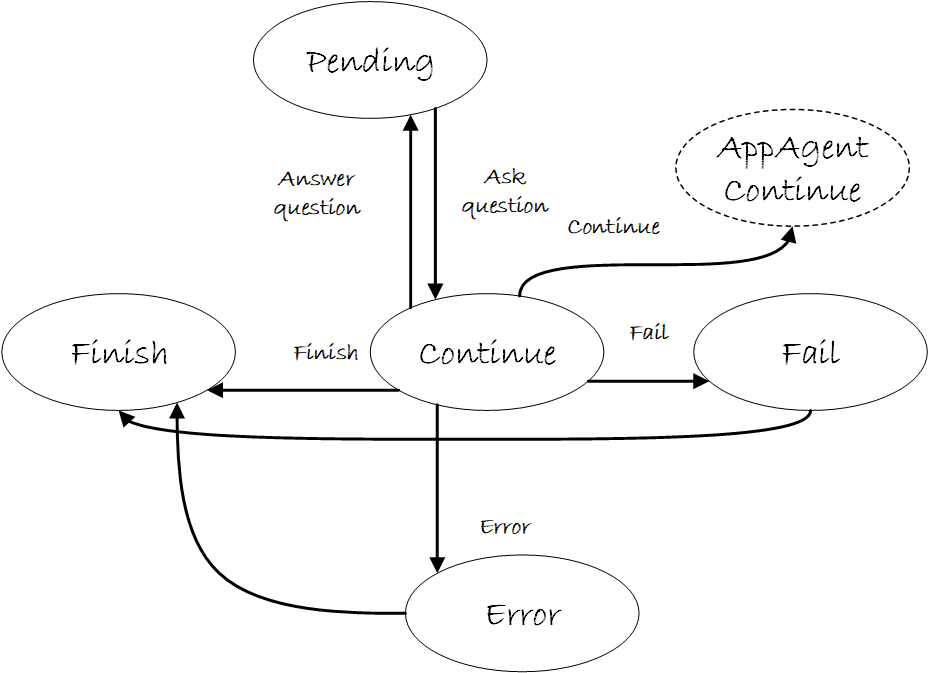
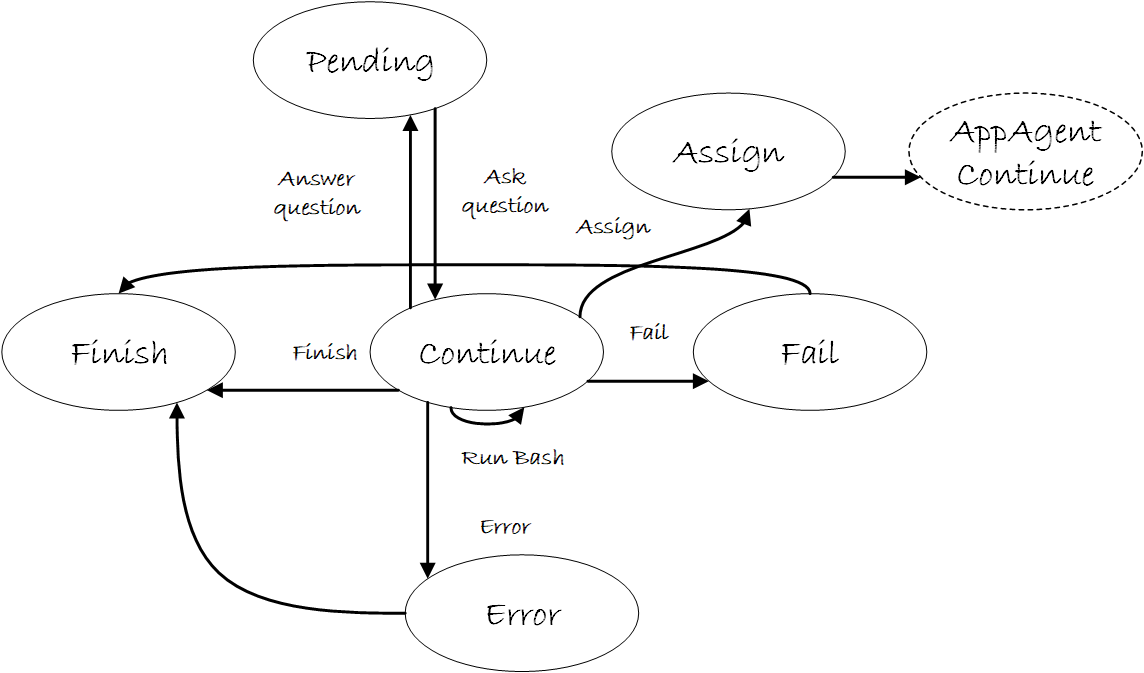
refine doc

diff --git a/documents/docs/agents/host_agent.md b/documents/docs/agents/host_agent.md
@@ -45,7 +45,7 @@ With the inputs provided, the `HostAgent` generates the following outputs:
 | Status | The status of the agent, mapped to the `AgentState`. | String |
 | Comment | Additional comments or information provided to the user. | String |
 | Questions | The questions to be asked to the user for additional information. | List of Strings |
-| AppsToOpen | The application to be opened to execute the sub-task if it is not already open. | Dictionary |
+| Bash | The bash command to be executed by the `HostAgent`. It can be used to open applications or execute system commands. | String |
 
 
 Below is an example of the `HostAgent` output:
@@ -62,7 +62,7 @@ Below is an example of the `HostAgent` output:
     "Status": "AgentState",
     "Comment": "Additional comments",
     "Questions": ["Question 1", "Question 2"],
-    "AppsToOpen": {"APP": "powerpnt", "file_path": ""}
+    "Bash": "Bash command"
 }
 ```
 
@@ -76,7 +76,8 @@ The `HostAgent` progresses through different states, as defined in the `ufo/agen
 
 | State | Description |
 | --- | --- |
-| `CONTINUE` | The `HostAgent` is ready to process the user's request and emloy the `Processor` to decompose it into sub-tasks and assign them to the `AppAgents`. |
+| `CONTINUE` | The `HostAgent` is ready to process the user's request and emloy the `Processor` to decompose it into sub-tasks. |
+| `ASSIGN` | The `HostAgent` is assigning the sub-tasks to the `AppAgents` for execution. |
 | `FINISH` | The overall task is completed, and the `HostAgent` is ready to return the results to the user. |
 | `ERROR` | An error occurred during the processing of the user's request, and the `HostAgent` is unable to proceed. |
 | `FAIL` | The `HostAgent` believes the task is unachievable and cannot proceed further. |
